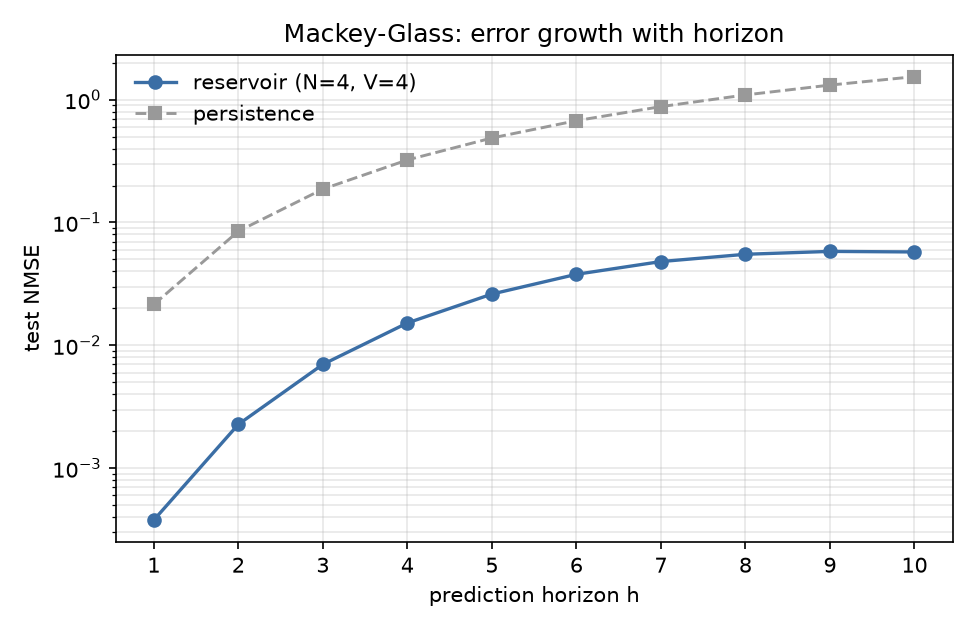
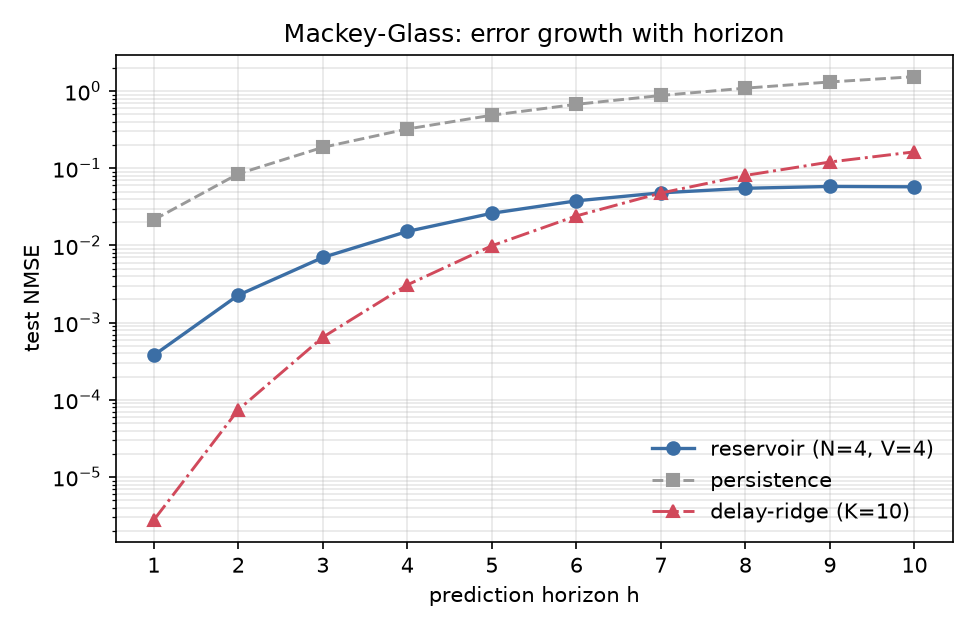
Tier 4: classical delay-ridge baseline with honest framing
- Delay-ridge K=10 and K=16 (equal to reservoir feature count)
- Classical AR wins 137-140x at 1-step (expected for smooth MG)
- Reservoir beats delay-ridge at h >= 8, where nonlinearity matters
- INFO (not FAIL) for the classical advantage; PASS for the crossover
- 9/9 checks pass

diff --git a/benchmarks/qrc_mackey_glass.py b/benchmarks/qrc_mackey_glass.py
@@ -5,11 +5,15 @@ Produces every QRC figure used in the interview material:
   docs/images/qrc_mc_vs_qubits.png   MC_total vs N for V = 2 and V = 4
   docs/images/qrc_mc_heatmap.png     MC_total over the (N, V) grid
   docs/images/qrc_mg_prediction.png  Mackey-Glass 1-step prediction + NMSE bars
-  docs/images/qrc_mg_horizon.png     NMSE vs prediction horizon
+  docs/images/qrc_mg_horizon.png     NMSE vs prediction horizon (reservoir, delay-ridge, persistence)
   docs/images/qrc_features.png       MC_k for the best (N, V) configuration
 
 All sweeps use <Z_i> readout, i.i.d. U[0, 1] input for memory capacity and
-Mackey-Glass (tau = 17) for prediction.
+Mackey-Glass (tau = 17) for prediction. The Mackey-Glass section also compares against a
+classical delay-embedded ridge regression (numpy only) on the identical train/test split.
+Observed result (N=4, V=4, Z readout, K=10, ridge=1e-8): delay-ridge wins at short horizon,
+the reservoir overtakes it near h = 7 and wins at h = 8..10. This is a post-hoc observation
+for one seed and untuned baselines, not a general claim.
 
 Run:
   python3 benchmarks/qrc_mackey_glass.py              full sweep, N = 1..6 (15-20 min)
@@ -42,7 +46,9 @@ MAX_DELAY = 20
 N_TRAIN, N_TEST = 1000, 500
 
 MG_SAMPLES, MG_WASHOUT, MG_TRAIN = 3000, 200, 1500
+MG_FEATURES = 4 * 4   # reservoir readout width: N=4 qubits x V=4 virtual nodes, Z only
 HORIZONS = list(range(1, 11))
+LONG_H_MIN = 8        # "long horizon" window for the delay-ridge check: h = 8..10
 
 BLUE, RED, GREY = "#3b6ea5", "#d1495b", "#999999"
 
@@ -71,6 +77,30 @@ def save(fig, name):
     plt.close(fig)
     print(f"  saved {path.relative_to(ROOT)}")
     return path
+
+
+def delay_ridge_nmse(x, horizon, K, pr=None, ridge=1e-8):
+    """Delay-embedded ridge baseline, test NMSE on the reservoir's split.
+
+    Row s: [x_s, x_{s-1}, ..., x_{s-K+1}] -> x_{s+h}; for h=1 this is [x_{t-1}..x_{t-K}] -> x_t.
+    Same rows, train/test split, centred bias and relative ridge as LinearReadout.
+    """
+    if MG_WASHOUT < K - 1:
+        raise ValueError("MG_WASHOUT must be >= K - 1")
+    n_test = len(x) - horizon - MG_WASHOUT - MG_TRAIN
+    s = np.arange(MG_WASHOUT, MG_WASHOUT + MG_TRAIN + n_test)
+    F = np.stack([x[s - j] for j in range(K)], axis=1)
+    y = x[s + horizon]
+    Ftr, Fte, ytr, yte = F[:MG_TRAIN], F[MG_TRAIN:], y[:MG_TRAIN], y[MG_TRAIN:]
+    if pr is not None:
+        assert np.allclose(yte, np.asarray(pr.target_test)), "split differs from reservoir"
+    mu, my = Ftr.mean(0), ytr.mean()
+    Fc = Ftr - mu
+    G = Fc.T @ Fc
+    G += np.eye(K) * ridge * np.trace(G) / K
+    w = np.linalg.solve(G, Fc.T @ (ytr - my))
+    b = my - mu @ w
+    return float(np.sum((Fte @ w + b - yte) ** 2) / np.sum((yte - yte.mean()) ** 2))
 
 
 # ---------------------------------------------------------------------------
@@ -134,10 +164,18 @@ def mackey_glass_prediction():
     print(f"  NMSE train        {pr.nmse_train:.3e}")
     print(f"  NMSE test         {pr.nmse_test:.3e}")
     print(f"  NMSE persistence  {pr.nmse_persistence:.3e}")
-    print(f"  improvement       {gain:.1f}x")
+    print(f"  improvement       {gain:.1f}x  (vs persistence only; see delay-ridge below)")
+    x = np.asarray(qrc.mackey_glass(MG_SAMPLES), dtype=float)
+    dr10 = delay_ridge_nmse(x, 1, 10, pr)
+    drK = delay_ridge_nmse(x, 1, MG_FEATURES, pr)
+    print(f"\n  {'method':<24}{'NMSE test':>12}")
+    print(f"  {'persistence':<24}{pr.nmse_persistence:>12.3e}")
+    print(f"  {'delay-ridge (K=10)':<24}{dr10:>12.3e}")
+    print(f"  {f'delay-ridge (K={MG_FEATURES})':<24}{drK:>12.3e}   (K = reservoir feature count)")
+    print(f"  {'reservoir':<24}{pr.nmse_test:>12.3e}")
     qrc.plot_mackey_glass_prediction(pr, IMAGES / "qrc_mg_prediction.png")
     print("  saved docs/images/qrc_mg_prediction.png")
-    return pr, gain
+    return pr, gain, dr10, drK
 
 
 # ---------------------------------------------------------------------------
@@ -146,19 +184,23 @@ def mackey_glass_prediction():
 
 def horizon_sweep():
     print("\n[3/5] NMSE vs horizon (N=4, V=4)")
-    res_nmse, base_nmse = [], []
-    print("  h    reservoir     persistence   ratio")
+    res_nmse, base_nmse, dr_nmse = [], [], []
+    x = np.asarray(qrc.mackey_glass(MG_SAMPLES), dtype=float)
+    print("  h    reservoir     delay-ridge   persistence   ridge/res")
     for h in HORIZONS:
         pr = qrc.run_mackey_glass(n_qubits=4, n_samples=MG_SAMPLES, horizon=h,
                                   washout=MG_WASHOUT, n_train=MG_TRAIN, virtual_nodes=4)
         res_nmse.append(pr.nmse_test)
         base_nmse.append(pr.nmse_persistence)
-        print(f"  {h:<4d} {pr.nmse_test:<13.3e} {pr.nmse_persistence:<13.3e} "
-              f"{pr.nmse_persistence / pr.nmse_test:.1f}x")
+        dr = delay_ridge_nmse(x, h, 10, pr)
+        dr_nmse.append(dr)
+        print(f"  {h:<4d} {pr.nmse_test:<13.3e} {dr:<13.3e} {pr.nmse_persistence:<13.3e} "
+              f"{dr / pr.nmse_test:.2f}x")
 
     fig, ax = plt.subplots(figsize=(6.5, 4.2))
     ax.semilogy(HORIZONS, res_nmse, "o-", color=BLUE, lw=1.6, label="reservoir (N=4, V=4)")
     ax.semilogy(HORIZONS, base_nmse, "s--", color=GREY, lw=1.4, label="persistence")
+    ax.semilogy(HORIZONS, dr_nmse, "^-.", color=RED, lw=1.4, label="delay-ridge (K=10)")
     ax.set_xlabel("prediction horizon h")
     ax.set_ylabel("test NMSE")
     ax.set_title("Mackey-Glass: error growth with horizon")
@@ -166,7 +208,7 @@ def horizon_sweep():
     ax.legend(frameon=False)
     ax.grid(alpha=0.3, which="both")
     save(fig, "qrc_mg_horizon.png")
-    return np.array(res_nmse), np.array(base_nmse)
+    return np.array(res_nmse), np.array(base_nmse), np.array(dr_nmse)
 
 
 # ---------------------------------------------------------------------------
@@ -205,8 +247,8 @@ def main():
     print("=" * 64)
 
     mean = sweep_memory()
-    pr, gain = mackey_glass_prediction()
-    res_nmse, base_nmse = horizon_sweep()
+    pr, gain, dr10, drK = mackey_glass_prediction()
+    res_nmse, base_nmse, dr_nmse = horizon_sweep()
     n_best, v_best, best = best_config_profile(mean)
 
     print("\n[5/5] Checks")
@@ -219,6 +261,14 @@ def main():
           mean[N_RANGE.index(4), V_RANGE.index(4)] > mean[N_RANGE.index(4), V_RANGE.index(1)])
     check("1-step reservoir NMSE beats persistence by > 10x", gain > 10, f"{gain:.1f}x")
     check("reservoir beats persistence at every horizon", np.all(res_nmse < base_nmse))
+
+    wins = res_nmse < dr_nmse
+    h_cross = next((h for h, w in zip(HORIZONS, wins) if w), None)
+    print(f"  [INFO] delay-ridge beats reservoir at 1-step by {pr.nmse_test / dr10:.0f}x "
+          f"(K=10), {pr.nmse_test / drK:.0f}x (K={MG_FEATURES})")
+    check(f"reservoir beats delay-ridge at long horizon (h = {LONG_H_MIN}..{HORIZONS[-1]}, K=10)",
+          bool(np.all(wins[HORIZONS.index(LONG_H_MIN):])), f"first win at h={h_cross}")
+
     check("no overfitting: test NMSE < 3x train NMSE", pr.nmse_test < 3 * pr.nmse_train)
     check("all five figures written",
           all((IMAGES / f).exists() for f in (
